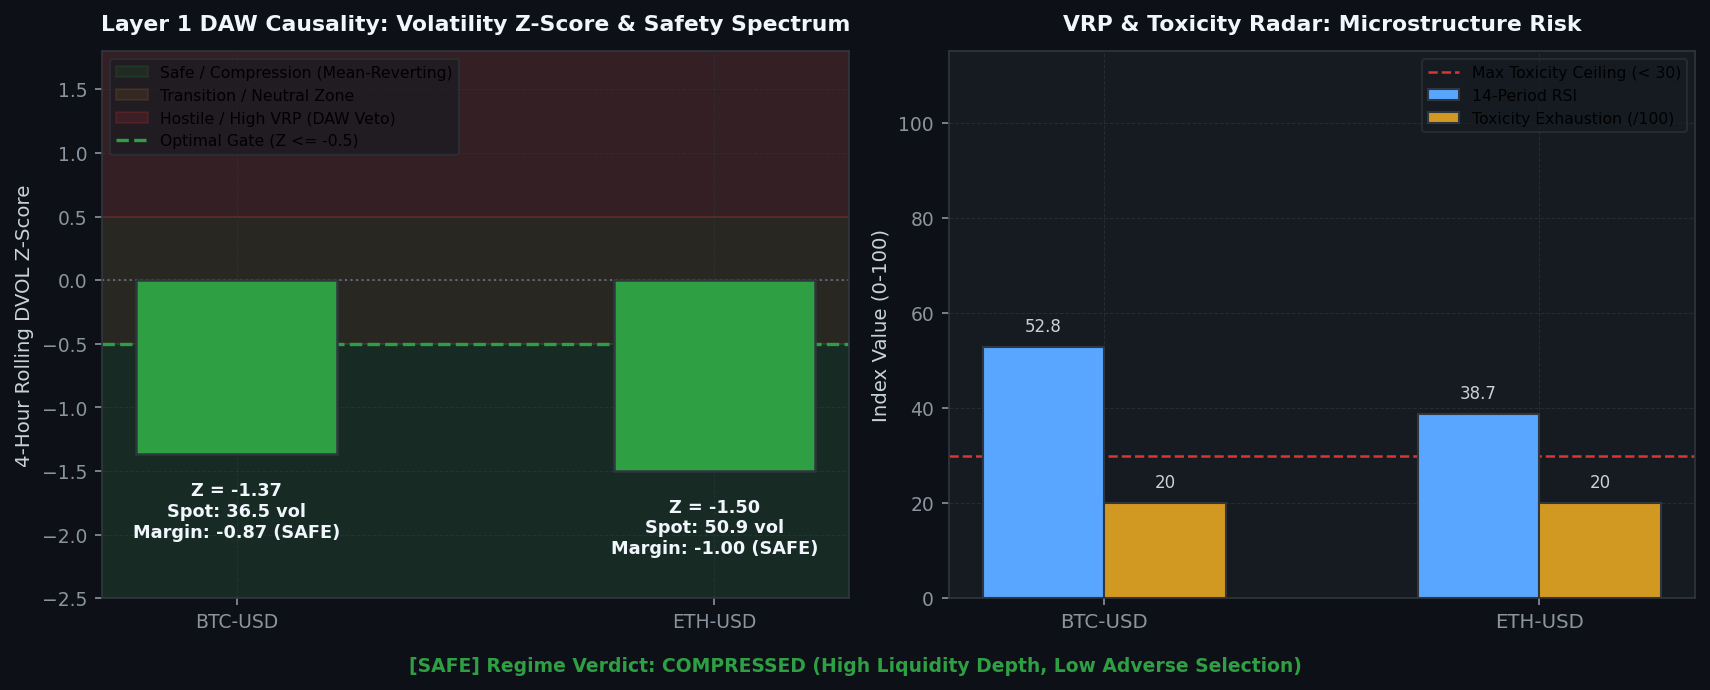
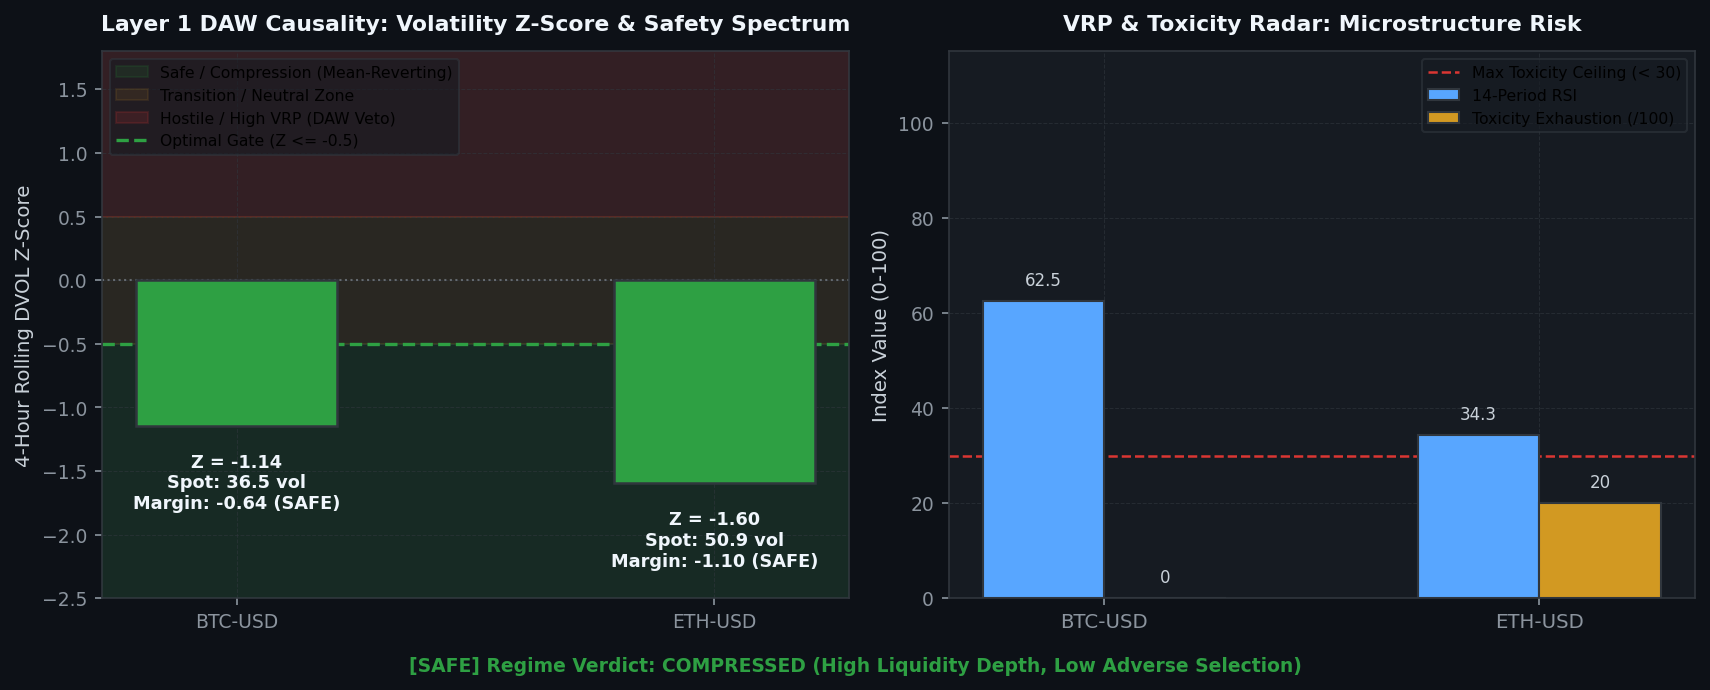
[coinbase] Hourly Status & Visual Intelligence Update: 2026-08-30 23:00:27

diff --git a/coinbase/data/hourly_status_report.md b/coinbase/data/hourly_status_report.md
@@ -3,7 +3,7 @@ layout: default
 ---
 
 # 🛡 Unified Trading System Hourly Status & Visual Intelligence
-> **Report Generated**: `2026-08-30 10:49:13 PM PDT (2026-08-31 05:49:13 UTC)`  
+> **Report Generated**: `2026-08-30 11:00:10 PM PDT (2026-08-31 06:00:10 UTC)`  
 > **System Health**: **🟡 DEGRADED / RESTRICTED** | **Win Rate**: `0.0%` | **Completed Trades**: `0`
 
 
@@ -15,13 +15,13 @@ Real-time Deribit implied volatility (DVOL) proxy tracking against mathematicall
 
 | Symbol | Proxy Oracle | Live Z-Score | Optimal Limit (YSP) | Safety Margin | Live VRP | Optimal VRP (YSP) | DAW Safety Verdict |
 | :--- | :--- | :--- | :--- | :--- | :--- | :--- | :--- |
-| `AVAX-USD` | DVOL_BTC | **-1.37** | **-0.50** | **-0.87** | **+3.79** | 5.0 | 🟢 SAFE |
-| `ETH-USD` | DVOL_ETH | **-1.50** | **-0.50** | **-1.00** | **+18.92** | 5.0 | 🔴 DAW VETOED |
-| `ADA-USD` | DVOL_BTC | **-1.37** | **-0.50** | **-0.87** | **+3.79** | 5.0 | 🟢 SAFE |
-| `DOGE-USD` | DVOL_BTC | **-1.37** | **-0.50** | **-0.87** | **+3.87** | 5.0 | 🟢 SAFE |
-| `BTC-USD` | DVOL_BTC | **-1.37** | **-0.50** | **-0.87** | **+3.55** | 5.0 | 🟢 SAFE |
-| `LINK-USD` | DVOL_BTC | **-1.37** | **-0.50** | **-0.87** | **+3.79** | 5.0 | 🟢 SAFE |
-| `SOL-USD` | DVOL_BTC | **-1.37** | **-0.50** | **-0.87** | **+3.87** | 5.0 | 🟢 SAFE |
+| `AVAX-USD` | DVOL_BTC | **-1.15** | **-0.50** | **-0.65** | **+3.79** | 5.0 | 🟢 SAFE |
+| `ETH-USD` | DVOL_ETH | **-1.60** | **-0.50** | **-1.10** | **+18.25** | 5.0 | 🔴 DAW VETOED |
+| `ADA-USD` | DVOL_BTC | **-1.15** | **-0.50** | **-0.65** | **+3.79** | 5.0 | 🟢 SAFE |
+| `DOGE-USD` | DVOL_BTC | **-1.15** | **-0.50** | **-0.65** | **+3.87** | 5.0 | 🟢 SAFE |
+| `BTC-USD` | DVOL_BTC | **-1.15** | **-0.50** | **-0.65** | **+3.55** | 5.0 | 🟢 SAFE |
+| `LINK-USD` | DVOL_BTC | **-1.15** | **-0.50** | **-0.65** | **+3.79** | 5.0 | 🟢 SAFE |
+| `SOL-USD` | DVOL_BTC | **-1.15** | **-0.50** | **-0.65** | **+3.87** | 5.0 | 🟢 SAFE |
 
 
 
@@ -37,16 +37,16 @@ We hereby certify that the mission-critical algorithmic data assets uploaded by 
 
 | Status | Data Asset | Freshness / State | Details / Timestamp |
 | :---: | :--- | :--- | :--- |
-| ❌ | **Go-List JSON** | STALE! (15.7h old) | Limit 4.8h |
-| ✅ | **TimesFM Forecasts** | Fresh (1.95h old) | 08-30 20:52 |
-| ❌ | **Holding Times config** | STALE! (229.8h old) | Limit 3.8h |
-| ✅ | **BTC DVOL Cache** | Fresh (0.00h old) | 08-30 22:49 |
-| ✅ | **ETH DVOL Cache** | Fresh (0.00h old) | 08-30 22:49 |
-| ✅ | **Live Trading Telemetry** | Fresh (0.00h old) | 08-30 22:49 |
+| ❌ | **Go-List JSON** | STALE! (15.9h old) | Limit 5.0h |
+| ✅ | **TimesFM Forecasts** | Fresh (2.13h old) | 08-30 20:52 |
+| ❌ | **Holding Times config** | STALE! (230.0h old) | Limit 4.0h |
+| ✅ | **BTC DVOL Cache** | Fresh (0.01h old) | 08-30 22:59 |
+| ✅ | **ETH DVOL Cache** | Fresh (0.01h old) | 08-30 23:00 |
+| ✅ | **Live Trading Telemetry** | Fresh (0.00h old) | 08-30 23:00 |
 
 <br>
 
-> **Utilization Certification**: ✅ **CERTIFIED.** The Guardian Watchdog is ONLINE and EC2 traders are actively querying the freshest MLOps data artifacts (Found 1921 recent read events).
+> **Utilization Certification**: ✅ **CERTIFIED.** The Guardian Watchdog is ONLINE and EC2 traders are actively querying the freshest MLOps data artifacts (Found 1847 recent read events).
 
 
 ---
@@ -55,7 +55,7 @@ Layer-by-layer tick evaluation waterfall and asset-specific performance tracking
 
 | Funnel Filter Layer | Total Rejections | % of Rejections |
 | :--- | :--- | :--- |
-| Tier 1: Macro Volatility Tensor Gate (Omega_macro) | `43,988` | **100.0%** |
+| Tier 1: Macro Volatility Tensor Gate (Omega_macro) | `44,018` | **100.0%** |
 | Tier 2: Unified Transport & Directional Engine | `0` | **0.0%** |
 | Tier 3: Continuous Hawkes-SFGK Pricer (HAS-Pricer) | `0` | **0.0%** |
 | System: Asset Cooldown Active | `0` | **0.0%** |
@@ -92,12 +92,13 @@ Live balance sheet and open maker liquidity positions from Coinbase CDP.
 | `AVAX-USD` | SELL | 7.236 | `cf42329e-7ef5-45d4-bcee-23e674bf9bd2` |
 | `BTC-USD` | SELL | 78213 | `7b0a0c94-7fba-425b-94bd-b964dd54e329` |
 | `SOL-USD` | SELL | 102.91 | `52bd7c48-e36e-400f-95de-192710e45e4e` |
-| `USDT-USD` | BUY | 0.99988 | `c7629eba-91ca-43f0-b1d8-6c5101200e81` |
-| `USDT-USD` | BUY | 0.99988 | `1e690217-1ec4-47fb-ab5b-442138995c79` |
-| `USDT-USD` | BUY | 0.99988 | `511378dc-102c-4332-9351-cbf19eaea2e7` |
-| `USDT-USD` | BUY | 0.99988 | `5a9f7536-be66-4867-aac3-6791705c0506` |
-| `USDT-USD` | BUY | 0.99988 | `3e25f257-9e93-4a9d-8ff9-ba3d219495f8` |
-| `USDT-USD` | SELL | 0.9999 | `f110e29c-119c-4dfe-ac6f-a798d8a2c108` |
+| `USDT-USD` | BUY | 0.99988 | `9c0bff42-86be-457b-85df-2b876932c0bc` |
+| `USDT-USD` | SELL | 0.99989 | `95f57d41-481f-4ebf-88f4-e0c92ebd2919` |
+| `USDT-USD` | SELL | 0.99989 | `18c4b4cf-7275-41d4-b11f-d565d1035285` |
+| `USDT-USD` | BUY | 0.99988 | `d905e7fe-8a5c-44a3-ac62-0380fd484cfd` |
+| `USDT-USD` | BUY | 0.99988 | `d99643fe-a5eb-4701-81d7-b1fb367e746c` |
+| `USDT-USD` | BUY | 0.99988 | `6600504c-319a-4ffb-9a33-9c8763e5ec58` |
+| `USDT-USD` | BUY | 0.99988 | `cca531cb-ac92-4322-9e7e-22aa3b5bb3d8` |
 
 
 
@@ -105,14 +106,14 @@ Live balance sheet and open maker liquidity positions from Coinbase CDP.
 ## 4. 🤖 Foundation Model MLOps & Pipeline Orchestration
 Weekly Algorithmic Mega Cap selection, Zero-shot multi-step forward return forecasts, and VSTEF parameter grid search status.
 
-- **TimesFM Forecast DB**: 🟢 Updated 1.9h ago (2026-08-30 08:52 PM PDT)
+- **TimesFM Forecast DB**: 🟢 Updated 2.1h ago (2026-08-30 08:52 PM PDT)
 - **Last Weekly VSTEF Optimization**: `2026-08-05 09:22:38 AM PDT`
-- **Next Scheduled VSTEF Run**: `2026-09-06 07:00:00 PM PDT (Monday 02:00 UTC)` (Countdown: **164.2h (6d 20h 10m)**)
+- **Next Scheduled VSTEF Run**: `2026-09-06 07:00:00 PM PDT (Monday 02:00 UTC)` (Countdown: **164.0h (6d 19h 59m)**)
 - **Promoted Parameter Gates**: $Z_{DVOL} \le -0.5$ | Holding Horizon $= 12\text{h}$
 
 ### Algorithmic Mega Cap Selection
 - **Last Run (Confirmation)**: `2026-08-30 07:08:16 AM PDT`
-- **Next Scheduled Run**: `2026-09-06 06:00:00 PM PDT (Monday 01:00 UTC)` (Countdown: **163.2h (6d 19h 10m)**)
+- **Next Scheduled Run**: `2026-09-06 06:00:00 PM PDT (Monday 01:00 UTC)` (Countdown: **163.0h (6d 18h 59m)**)
 - **Selected Mega Cap Universe**: `BTC, BCH, AVAX, ETH, ALGO, ADA, LTC, DOGE, AAVE, LINK, DOT, HBAR`
 
 
@@ -126,20 +127,20 @@ Visualizing the impact of the VSTEF (Volatility-Synchronized Stop-Tightening Exe
 ## 5. 🖥 Multi-Node Infrastructure & Watchdog Matrix
 ```text
 ================================================================================
-   🛡  SFGK FUNNEL GUARDIAN WATCHDOG (HFT ONLY) |  05:49:11 AM
-   CPU:   9.5%  |  MEM:   8.5% (14.1GB / 15.4GB Free)
+   🛡  SFGK FUNNEL GUARDIAN WATCHDOG (HFT ONLY) |  06:00:10 AM
+   CPU:   3.6%  |  MEM:   8.4% (14.1GB / 15.4GB Free)
 ================================================================================
 SERVICE              | PID      | STATUS          | RESTARTS | INFO
 --------------------------------------------------------------------------------
-L3 Consumer          | 1653790  | RUNNING         | -        | Continuous Websocket Feed
-MAO Daemon           | 1653952  | RUNNING         | -        | Oracle Yield Analysis
-U/U Farmer           | 1653954  | RUNNING         | -        | Volume Farmer
-Trader AVAX-USD      | 1728840  | RUNNING         | 207      | Evaluating Funnel/Polling Order
-Trader ETH-USD       | 1746343  | COOL-DOWN       | 307      | Next run in 14.8s
-Trader ADA-USD       | 1728740  | RUNNING         | 73       | Evaluating Funnel/Polling Order
-Trader DOGE-USD      | 1729080  | RUNNING         | 161      | Evaluating Funnel/Polling Order
-Trader BTC-USD       | 1728078  | RUNNING         | 234      | Evaluating Funnel/Polling Order
-Trader LINK-USD      | 1728841  | RUNNING         | 170      | Evaluating Funnel/Polling Order
+L3 Consumer          | 1752703  | RUNNING         | -        | Continuous Websocket Feed
+MAO Daemon           | 1752825  | RUNNING         | -        | Oracle Yield Analysis
+U/U Farmer           | 1752827  | RUNNING         | -        | Volume Farmer
+Trader AVAX-USD      | 1752828  | RUNNING         | 0        | Evaluating Funnel/Polling Order
+Trader ETH-USD       | 1755284  | COOL-DOWN       | 9        | Next run in 9.6s
+Trader ADA-USD       | 1752830  | RUNNING         | 0        | Evaluating Funnel/Polling Order
+Trader DOGE-USD      | 1752831  | RUNNING         | 0        | Evaluating Funnel/Polling Order
+Trader BTC-USD       | 1752832  | RUNNING         | 0        | Evaluating Funnel/Polling Order
+Trader LINK-USD      | 1752833  | RUNNING         | 0        | Evaluating Funnel/Polling Order
 ```
 
 ---

diff --git a/coinbase/data/visual_intelligence.md b/coinbase/data/visual_intelligence.md
@@ -4,7 +4,7 @@ title: Visual Intelligence Gallery
 ---
 
 # 📈 Visual Intelligence Gallery
-> **Generated:** `2026-08-30 22:49:30`
+> **Generated:** `2026-08-30 23:00:27`
 > **[Return to Main Status Report](./hourly_status_report.md)**
 
 This page visualizes the internal states, market profiles, and decision criteria of the active **3-Tier Fused Decision Engine** across all layers.
